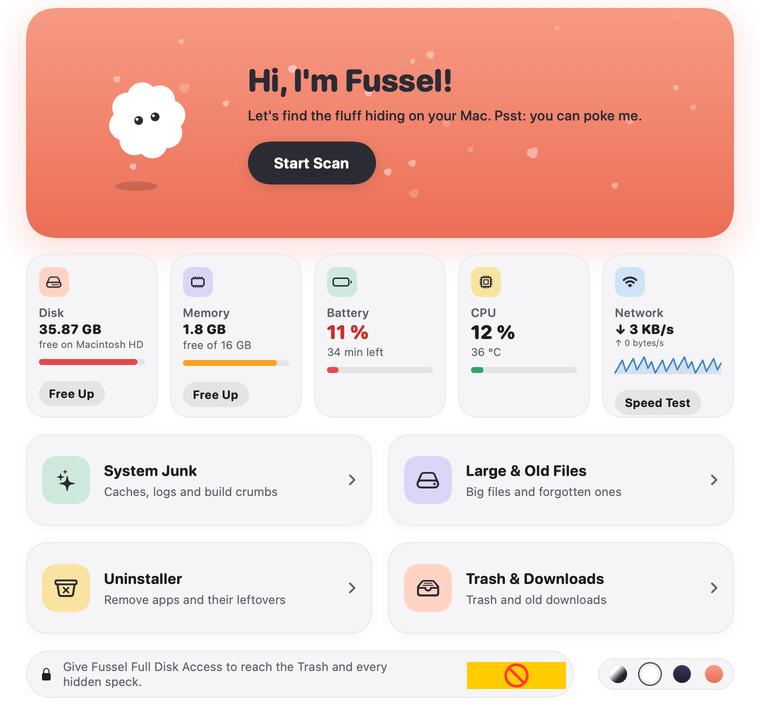
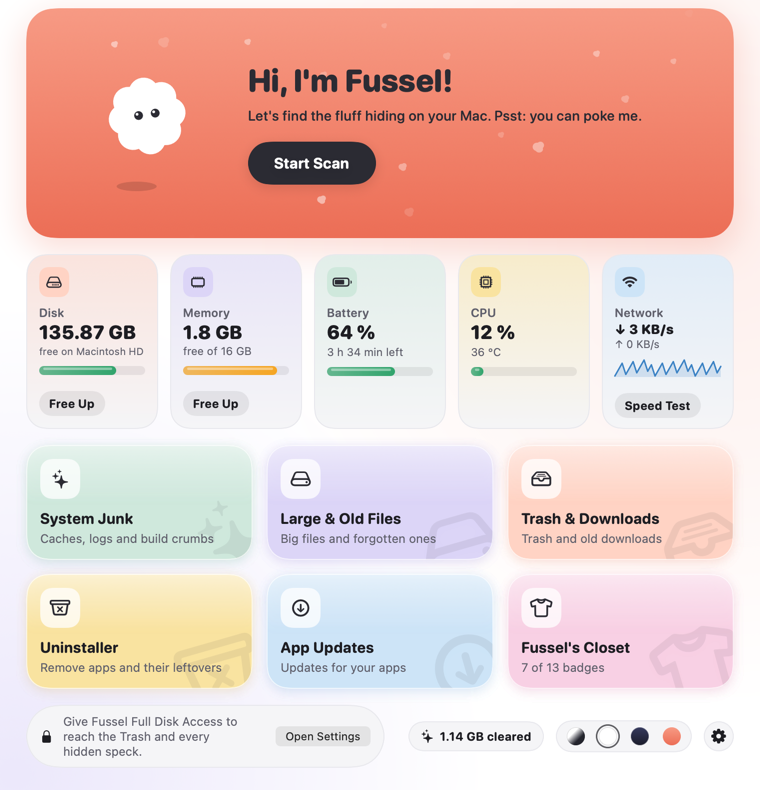
New screenshots for the livelier design; SwiftUI spinner in the scan chips
The scan chips drew AppKit spinners, which the preview renderer shows as
yellow placeholders. A small SwiftUI arc matches the tint and renders everywhere.

diff --git a/Sources/Fussel/ContentView.swift b/Sources/Fussel/ContentView.swift
@@ -469,6 +469,7 @@ private struct ScanChip: View {
     let title: String
     let done: Bool
     let tint: Color
+    @State private var spinning = false
 
     var body: some View {
         HStack(spacing: 6) {
@@ -477,9 +478,14 @@ private struct ScanChip: View {
                     Image(systemName: "checkmark.circle.fill")
                         .transition(.scale(scale: 0.2).combined(with: .opacity))
                 } else {
-                    ProgressView()
-                        .controlSize(.mini)
-                        .tint(tint)
+                    // Drawn in SwiftUI (not ProgressView), so it matches the tint and shows up in previews.
+                    Circle()
+                        .trim(from: 0.2, to: 1)
+                        .stroke(tint, style: StrokeStyle(lineWidth: 2, lineCap: .round))
+                        .padding(1.5)
+                        .rotationEffect(.degrees(spinning ? 360 : 0))
+                        .animation(.linear(duration: 0.8).repeatForever(autoreverses: false), value: spinning)
+                        .onAppear { spinning = true }
                 }
             }
             .frame(width: 14, height: 14)
